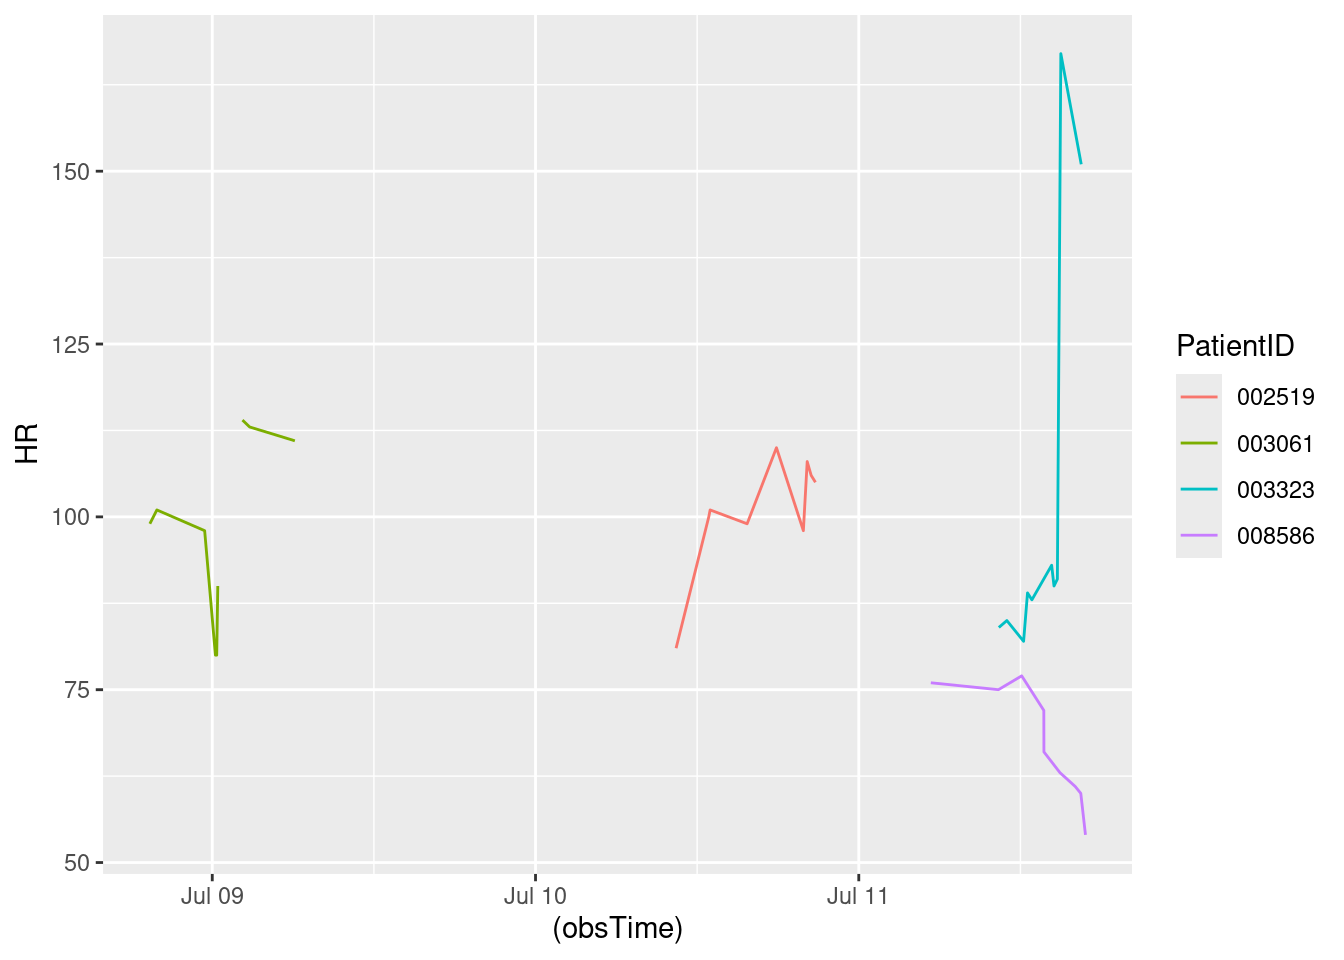
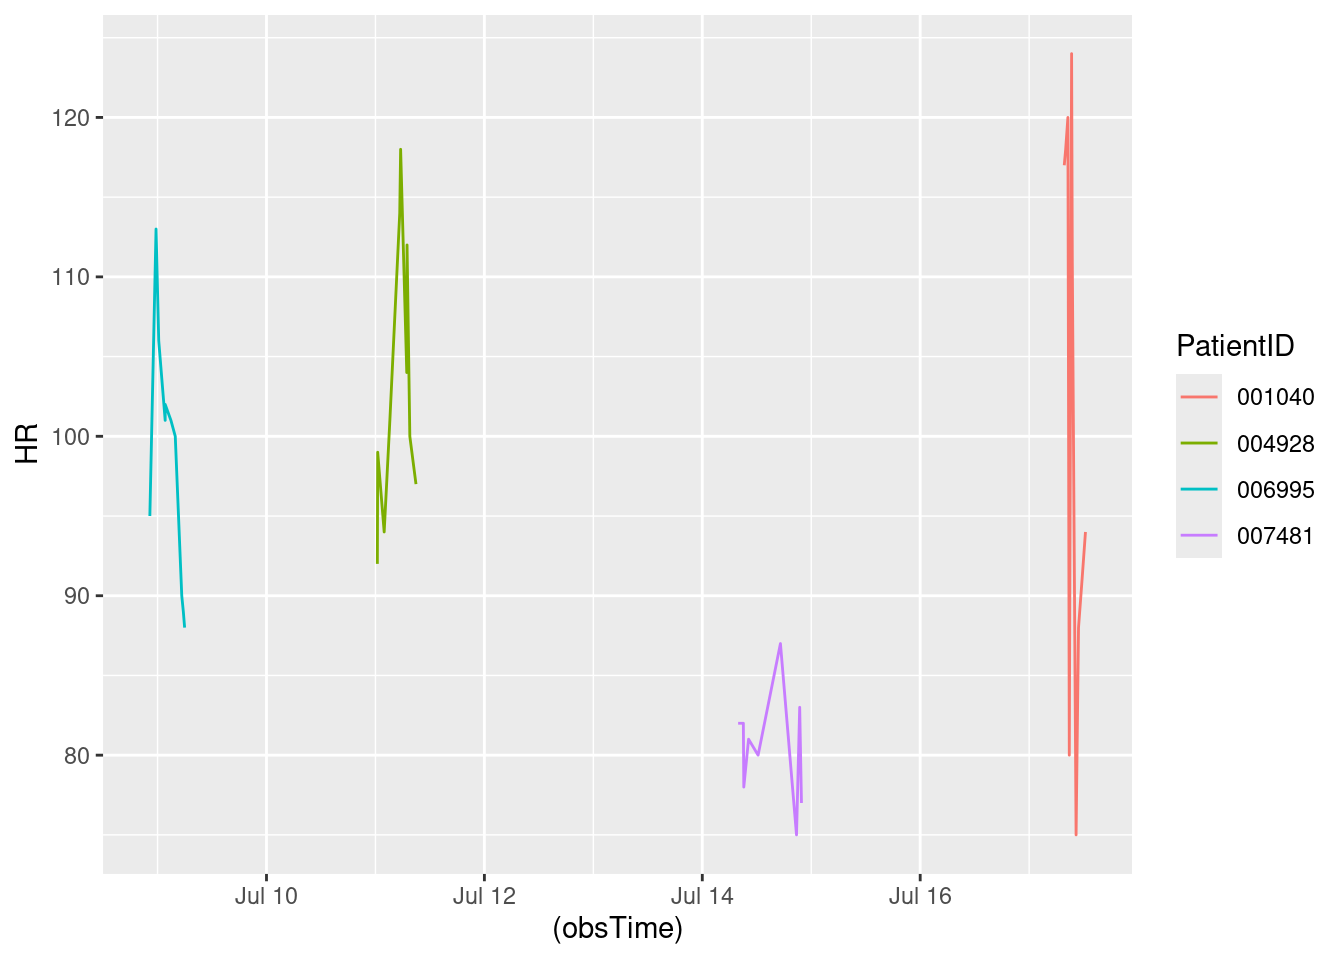
Updated report

diff --git a/HW7.html b/HW7.html
@@ -152,7 +152,7 @@ The following object is masked from 'package:purrr':
 </div>
 <div class="sourceCode cell-code" id="cb8"><pre class="sourceCode r code-with-copy"><code class="sourceCode r"><span id="cb8-1"><a href="#cb8-1" aria-hidden="true" tabindex="-1"></a><span class="fu">toc</span>()</span></code><button title="Copy to Clipboard" class="code-copy-button"><i class="bi"></i></button></pre></div>
 <div class="cell-output cell-output-stdout">
-<pre><code>15.576 sec elapsed</code></pre>
+<pre><code>14.628 sec elapsed</code></pre>
 </div>
 <div class="sourceCode cell-code" id="cb10"><pre class="sourceCode r code-with-copy"><code class="sourceCode r"><span id="cb10-1"><a href="#cb10-1" aria-hidden="true" tabindex="-1"></a><span class="fu">tic</span>()</span>
 <span id="cb10-2"><a href="#cb10-2" aria-hidden="true" tabindex="-1"></a>test1<span class="ot">=</span><span class="fu">makeSepsisDataset</span>(<span class="at">n=</span><span class="dv">50</span>,<span class="at">read_fn =</span> <span class="st">"read_delim"</span>)</span>
@@ -162,7 +162,7 @@ The following object is masked from 'package:purrr':
 </div>
 <div class="sourceCode cell-code" id="cb12"><pre class="sourceCode r code-with-copy"><code class="sourceCode r"><span id="cb12-1"><a href="#cb12-1" aria-hidden="true" tabindex="-1"></a><span class="fu">toc</span>()</span></code><button title="Copy to Clipboard" class="code-copy-button"><i class="bi"></i></button></pre></div>
 <div class="cell-output cell-output-stdout">
-<pre><code>9.802 sec elapsed</code></pre>
+<pre><code>11.803 sec elapsed</code></pre>
 </div>
 <div class="sourceCode cell-code" id="cb14"><pre class="sourceCode r code-with-copy"><code class="sourceCode r"><span id="cb14-1"><a href="#cb14-1" aria-hidden="true" tabindex="-1"></a><span class="fu">tic</span>()</span>
 <span id="cb14-2"><a href="#cb14-2" aria-hidden="true" tabindex="-1"></a>test1<span class="ot">=</span><span class="fu">makeSepsisDataset</span>(<span class="at">n=</span><span class="dv">100</span>,<span class="at">read_fn =</span> <span class="st">"fread"</span>)</span>
@@ -172,7 +172,7 @@ The following object is masked from 'package:purrr':
 </div>
 <div class="sourceCode cell-code" id="cb16"><pre class="sourceCode r code-with-copy"><code class="sourceCode r"><span id="cb16-1"><a href="#cb16-1" aria-hidden="true" tabindex="-1"></a><span class="fu">toc</span>()</span></code><button title="Copy to Clipboard" class="code-copy-button"><i class="bi"></i></button></pre></div>
 <div class="cell-output cell-output-stdout">
-<pre><code>18.033 sec elapsed</code></pre>
+<pre><code>27.815 sec elapsed</code></pre>
 </div>
 <div class="sourceCode cell-code" id="cb18"><pre class="sourceCode r code-with-copy"><code class="sourceCode r"><span id="cb18-1"><a href="#cb18-1" aria-hidden="true" tabindex="-1"></a><span class="fu">tic</span>()</span>
 <span id="cb18-2"><a href="#cb18-2" aria-hidden="true" tabindex="-1"></a>test1<span class="ot">=</span><span class="fu">makeSepsisDataset</span>(<span class="at">n=</span><span class="dv">100</span>,<span class="at">read_fn =</span> <span class="st">"read_delim"</span>)</span>
@@ -182,7 +182,7 @@ The following object is masked from 'package:purrr':
 </div>
 <div class="sourceCode cell-code" id="cb20"><pre class="sourceCode r code-with-copy"><code class="sourceCode r"><span id="cb20-1"><a href="#cb20-1" aria-hidden="true" tabindex="-1"></a><span class="fu">toc</span>()</span></code><button title="Copy to Clipboard" class="code-copy-button"><i class="bi"></i></button></pre></div>
 <div class="cell-output cell-output-stdout">
-<pre><code>18.027 sec elapsed</code></pre>
+<pre><code>23.09 sec elapsed</code></pre>
 </div>
 <div class="sourceCode cell-code" id="cb22"><pre class="sourceCode r code-with-copy"><code class="sourceCode r"><span id="cb22-1"><a href="#cb22-1" aria-hidden="true" tabindex="-1"></a><span class="fu">tic</span>()</span>
 <span id="cb22-2"><a href="#cb22-2" aria-hidden="true" tabindex="-1"></a>test1<span class="ot">=</span><span class="fu">makeSepsisDataset</span>(<span class="at">n=</span><span class="dv">500</span>,<span class="at">read_fn =</span> <span class="st">"fread"</span>)</span>
@@ -192,7 +192,7 @@ The following object is masked from 'package:purrr':
 </div>
 <div class="sourceCode cell-code" id="cb24"><pre class="sourceCode r code-with-copy"><code class="sourceCode r"><span id="cb24-1"><a href="#cb24-1" aria-hidden="true" tabindex="-1"></a><span class="fu">toc</span>()</span></code><button title="Copy to Clipboard" class="code-copy-button"><i class="bi"></i></button></pre></div>
 <div class="cell-output cell-output-stdout">
-<pre><code>94.627 sec elapsed</code></pre>
+<pre><code>137.067 sec elapsed</code></pre>
 </div>
 <div class="sourceCode cell-code" id="cb26"><pre class="sourceCode r code-with-copy"><code class="sourceCode r"><span id="cb26-1"><a href="#cb26-1" aria-hidden="true" tabindex="-1"></a><span class="fu">tic</span>()</span>
 <span id="cb26-2"><a href="#cb26-2" aria-hidden="true" tabindex="-1"></a>test1<span class="ot">=</span><span class="fu">makeSepsisDataset</span>(<span class="at">n=</span><span class="dv">500</span>,<span class="at">read_fn =</span> <span class="st">"read_delim"</span>)</span>
@@ -202,7 +202,7 @@ The following object is masked from 'package:purrr':
 </div>
 <div class="sourceCode cell-code" id="cb28"><pre class="sourceCode r code-with-copy"><code class="sourceCode r"><span id="cb28-1"><a href="#cb28-1" aria-hidden="true" tabindex="-1"></a><span class="fu">toc</span>()</span></code><button title="Copy to Clipboard" class="code-copy-button"><i class="bi"></i></button></pre></div>
 <div class="cell-output cell-output-stdout">
-<pre><code>90.574 sec elapsed</code></pre>
+<pre><code>113.209 sec elapsed</code></pre>
 </div>
 </div>
 <p>Problem 3: Speed reading</p>
@@ -244,7 +244,7 @@ dttm (1): obsTime
 <div class="sourceCode cell-code" id="cb35"><pre class="sourceCode r code-with-copy"><code class="sourceCode r"><span id="cb35-1"><a href="#cb35-1" aria-hidden="true" tabindex="-1"></a><span class="co">#Sys.Date()</span></span>
 <span id="cb35-2"><a href="#cb35-2" aria-hidden="true" tabindex="-1"></a><span class="fu">Sys.time</span>()</span></code><button title="Copy to Clipboard" class="code-copy-button"><i class="bi"></i></button></pre></div>
 <div class="cell-output cell-output-stdout">
-<pre><code>[1] "2024-07-08 14:23:46 UTC"</code></pre>
+<pre><code>[1] "2024-07-08 15:26:27 UTC"</code></pre>
 </div>
 <div class="sourceCode cell-code" id="cb37"><pre class="sourceCode r code-with-copy"><code class="sourceCode r"><span id="cb37-1"><a href="#cb37-1" aria-hidden="true" tabindex="-1"></a>dfnew<span class="ot">=</span>df <span class="sc">%&gt;%</span><span class="fu">subset</span>(SepsisLabel<span class="sc">==</span><span class="dv">1</span>)</span>
 <span id="cb37-2"><a href="#cb37-2" aria-hidden="true" tabindex="-1"></a></span>
@@ -263,19 +263,15 @@ dttm (1): obsTime
 # Groups:   PatientID [4]
   PatientID ICULOS    HR  Temp  Resp SepsisLabel obsTime            
   &lt;chr&gt;      &lt;int&gt; &lt;int&gt; &lt;dbl&gt; &lt;int&gt;       &lt;int&gt; &lt;dttm&gt;             
-1 002519        55   105  NA      14           1 2024-07-10 20:46:55
-2 003061        16   111  37.7    28           1 2024-07-09 06:07:54
-3 003323        76   151  38.4    25           1 2024-07-11 16:30:50
-4 008586        75    54  36.3    21           1 2024-07-11 16:49:46</code></pre>
+1 001040       214    94  38.3    30           1 2024-07-17 12:24:24
+2 004928        66    97  NA      24           1 2024-07-11 08:55:48
+3 006995        16    88  NA      16           1 2024-07-09 05:57:51
+4 007481       151    77  NA      16           1 2024-07-14 21:50:44</code></pre>
 </div>
 </div>
 <div class="cell">
 <div class="sourceCode cell-code" id="cb39"><pre class="sourceCode r code-with-copy"><code class="sourceCode r"><span id="cb39-1"><a href="#cb39-1" aria-hidden="true" tabindex="-1"></a>dfnew <span class="sc">%&gt;%</span></span>
 <span id="cb39-2"><a href="#cb39-2" aria-hidden="true" tabindex="-1"></a>  <span class="fu">ggplot</span>()<span class="sc">+</span><span class="fu">geom_line</span>(<span class="fu">aes</span>(<span class="at">y=</span>HR,<span class="at">x=</span>(obsTime),<span class="at">color=</span>PatientID))</span></code><button title="Copy to Clipboard" class="code-copy-button"><i class="bi"></i></button></pre></div>
-<div class="cell-output cell-output-stderr">
-<pre><code>Warning: Removed 1 row containing missing values or values outside the scale range
-(`geom_line()`).</code></pre>
-</div>
 <div class="cell-output-display">
 <div>
 <figure class="figure">
@@ -288,7 +284,7 @@ dttm (1): obsTime
 <section id="display-the-most-recent-data" class="level2">
 <h2 class="anchored" data-anchor-id="display-the-most-recent-data">Display the most recent data</h2>
 <div class="cell">
-<div class="sourceCode cell-code" id="cb41"><pre class="sourceCode r code-with-copy"><code class="sourceCode r"><span id="cb41-1"><a href="#cb41-1" aria-hidden="true" tabindex="-1"></a>most_recent_data</span></code><button title="Copy to Clipboard" class="code-copy-button"><i class="bi"></i></button></pre></div>
+<div class="sourceCode cell-code" id="cb40"><pre class="sourceCode r code-with-copy"><code class="sourceCode r"><span id="cb40-1"><a href="#cb40-1" aria-hidden="true" tabindex="-1"></a>most_recent_data</span></code><button title="Copy to Clipboard" class="code-copy-button"><i class="bi"></i></button></pre></div>
 <div class="cell-output cell-output-stdout">
 <pre><code># A tibble: 50 × 7
 # Groups:   PatientID [50]
@@ -311,32 +307,32 @@ dttm (1): obsTime
 <section id="calculate-the-difference" class="level2">
 <h2 class="anchored" data-anchor-id="calculate-the-difference">Calculate the difference</h2>
 <div class="cell">
-<div class="sourceCode cell-code" id="cb43"><pre class="sourceCode r code-with-copy"><code class="sourceCode r"><span id="cb43-1"><a href="#cb43-1" aria-hidden="true" tabindex="-1"></a><span class="fu">library</span>(dplyr)</span>
-<span id="cb43-2"><a href="#cb43-2" aria-hidden="true" tabindex="-1"></a><span class="fu">library</span>(tidyr)</span>
-<span id="cb43-3"><a href="#cb43-3" aria-hidden="true" tabindex="-1"></a><span class="fu">library</span>(knitr)</span>
-<span id="cb43-4"><a href="#cb43-4" aria-hidden="true" tabindex="-1"></a>get_observation_data <span class="ot">&lt;-</span> <span class="cf">function</span>(data, n, column_suffix) {</span>
-<span id="cb43-5"><a href="#cb43-5" aria-hidden="true" tabindex="-1"></a>  data <span class="sc">%&gt;%</span></span>
-<span id="cb43-6"><a href="#cb43-6" aria-hidden="true" tabindex="-1"></a>    <span class="fu">group_by</span>(PatientID) <span class="sc">%&gt;%</span></span>
-<span id="cb43-7"><a href="#cb43-7" aria-hidden="true" tabindex="-1"></a>    <span class="fu">slice_max</span>(<span class="at">order_by =</span> obsTime, <span class="at">n =</span> n) <span class="sc">%&gt;%</span></span>
-<span id="cb43-8"><a href="#cb43-8" aria-hidden="true" tabindex="-1"></a>    <span class="fu">select</span>(<span class="sc">-</span><span class="fu">c</span>(ICULOS, SepsisLabel, obsTime)) <span class="sc">%&gt;%</span></span>
-<span id="cb43-9"><a href="#cb43-9" aria-hidden="true" tabindex="-1"></a>    <span class="fu">rename_at</span>(<span class="fu">vars</span>(HR, Temp, Resp),</span>
-<span id="cb43-10"><a href="#cb43-10" aria-hidden="true" tabindex="-1"></a>              <span class="fu">list</span>(<span class="sc">~</span><span class="fu">paste0</span>(., <span class="st">"_"</span>, column_suffix)))</span>
-<span id="cb43-11"><a href="#cb43-11" aria-hidden="true" tabindex="-1"></a>}</span>
-<span id="cb43-12"><a href="#cb43-12" aria-hidden="true" tabindex="-1"></a></span>
-<span id="cb43-13"><a href="#cb43-13" aria-hidden="true" tabindex="-1"></a></span>
-<span id="cb43-14"><a href="#cb43-14" aria-hidden="true" tabindex="-1"></a></span>
-<span id="cb43-15"><a href="#cb43-15" aria-hidden="true" tabindex="-1"></a></span>
-<span id="cb43-16"><a href="#cb43-16" aria-hidden="true" tabindex="-1"></a>last_obs <span class="ot">&lt;-</span> <span class="fu">get_observation_data</span>(new_data, <span class="dv">1</span>, <span class="st">"last"</span>)</span>
-<span id="cb43-17"><a href="#cb43-17" aria-hidden="true" tabindex="-1"></a>penultimate_obs <span class="ot">&lt;-</span> <span class="fu">get_observation_data</span>(new_data, <span class="dv">2</span>, <span class="st">"penult"</span>)</span>
-<span id="cb43-18"><a href="#cb43-18" aria-hidden="true" tabindex="-1"></a>joined_data <span class="ot">&lt;-</span> <span class="fu">full_join</span>(last_obs, penultimate_obs) <span class="sc">%&gt;%</span></span>
-<span id="cb43-19"><a href="#cb43-19" aria-hidden="true" tabindex="-1"></a>  <span class="fu">transmute</span>(PatientID,</span>
-<span id="cb43-20"><a href="#cb43-20" aria-hidden="true" tabindex="-1"></a>            <span class="st">`</span><span class="at">Temperature change</span><span class="st">`</span> <span class="ot">=</span> Temp_last <span class="sc">-</span> Temp_penult,</span>
-<span id="cb43-21"><a href="#cb43-21" aria-hidden="true" tabindex="-1"></a>            <span class="st">`</span><span class="at">Heart rate change</span><span class="st">`</span> <span class="ot">=</span> HR_last <span class="sc">-</span> HR_penult,</span>
-<span id="cb43-22"><a href="#cb43-22" aria-hidden="true" tabindex="-1"></a>            <span class="st">`</span><span class="at">Respiratory rate change</span><span class="st">`</span> <span class="ot">=</span> Resp_last <span class="sc">-</span> Resp_penult)</span></code><button title="Copy to Clipboard" class="code-copy-button"><i class="bi"></i></button></pre></div>
+<div class="sourceCode cell-code" id="cb42"><pre class="sourceCode r code-with-copy"><code class="sourceCode r"><span id="cb42-1"><a href="#cb42-1" aria-hidden="true" tabindex="-1"></a><span class="fu">library</span>(dplyr)</span>
+<span id="cb42-2"><a href="#cb42-2" aria-hidden="true" tabindex="-1"></a><span class="fu">library</span>(tidyr)</span>
+<span id="cb42-3"><a href="#cb42-3" aria-hidden="true" tabindex="-1"></a><span class="fu">library</span>(knitr)</span>
+<span id="cb42-4"><a href="#cb42-4" aria-hidden="true" tabindex="-1"></a>get_observation_data <span class="ot">&lt;-</span> <span class="cf">function</span>(data, n, column_suffix) {</span>
+<span id="cb42-5"><a href="#cb42-5" aria-hidden="true" tabindex="-1"></a>  data <span class="sc">%&gt;%</span></span>
+<span id="cb42-6"><a href="#cb42-6" aria-hidden="true" tabindex="-1"></a>    <span class="fu">group_by</span>(PatientID) <span class="sc">%&gt;%</span></span>
+<span id="cb42-7"><a href="#cb42-7" aria-hidden="true" tabindex="-1"></a>    <span class="fu">slice_max</span>(<span class="at">order_by =</span> obsTime, <span class="at">n =</span> n) <span class="sc">%&gt;%</span></span>
+<span id="cb42-8"><a href="#cb42-8" aria-hidden="true" tabindex="-1"></a>    <span class="fu">select</span>(<span class="sc">-</span><span class="fu">c</span>(ICULOS, SepsisLabel, obsTime)) <span class="sc">%&gt;%</span></span>
+<span id="cb42-9"><a href="#cb42-9" aria-hidden="true" tabindex="-1"></a>    <span class="fu">rename_at</span>(<span class="fu">vars</span>(HR, Temp, Resp),</span>
+<span id="cb42-10"><a href="#cb42-10" aria-hidden="true" tabindex="-1"></a>              <span class="fu">list</span>(<span class="sc">~</span><span class="fu">paste0</span>(., <span class="st">"_"</span>, column_suffix)))</span>
+<span id="cb42-11"><a href="#cb42-11" aria-hidden="true" tabindex="-1"></a>}</span>
+<span id="cb42-12"><a href="#cb42-12" aria-hidden="true" tabindex="-1"></a></span>
+<span id="cb42-13"><a href="#cb42-13" aria-hidden="true" tabindex="-1"></a></span>
+<span id="cb42-14"><a href="#cb42-14" aria-hidden="true" tabindex="-1"></a></span>
+<span id="cb42-15"><a href="#cb42-15" aria-hidden="true" tabindex="-1"></a></span>
+<span id="cb42-16"><a href="#cb42-16" aria-hidden="true" tabindex="-1"></a>last_obs <span class="ot">&lt;-</span> <span class="fu">get_observation_data</span>(new_data, <span class="dv">1</span>, <span class="st">"last"</span>)</span>
+<span id="cb42-17"><a href="#cb42-17" aria-hidden="true" tabindex="-1"></a>penultimate_obs <span class="ot">&lt;-</span> <span class="fu">get_observation_data</span>(new_data, <span class="dv">2</span>, <span class="st">"penult"</span>)</span>
+<span id="cb42-18"><a href="#cb42-18" aria-hidden="true" tabindex="-1"></a>joined_data <span class="ot">&lt;-</span> <span class="fu">full_join</span>(last_obs, penultimate_obs) <span class="sc">%&gt;%</span></span>
+<span id="cb42-19"><a href="#cb42-19" aria-hidden="true" tabindex="-1"></a>  <span class="fu">transmute</span>(PatientID,</span>
+<span id="cb42-20"><a href="#cb42-20" aria-hidden="true" tabindex="-1"></a>            <span class="st">`</span><span class="at">Temperature change</span><span class="st">`</span> <span class="ot">=</span> Temp_last <span class="sc">-</span> Temp_penult,</span>
+<span id="cb42-21"><a href="#cb42-21" aria-hidden="true" tabindex="-1"></a>            <span class="st">`</span><span class="at">Heart rate change</span><span class="st">`</span> <span class="ot">=</span> HR_last <span class="sc">-</span> HR_penult,</span>
+<span id="cb42-22"><a href="#cb42-22" aria-hidden="true" tabindex="-1"></a>            <span class="st">`</span><span class="at">Respiratory rate change</span><span class="st">`</span> <span class="ot">=</span> Resp_last <span class="sc">-</span> Resp_penult)</span></code><button title="Copy to Clipboard" class="code-copy-button"><i class="bi"></i></button></pre></div>
 <div class="cell-output cell-output-stderr">
 <pre><code>Joining with `by = join_by(PatientID)`</code></pre>
 </div>
-<div class="sourceCode cell-code" id="cb45"><pre class="sourceCode r code-with-copy"><code class="sourceCode r"><span id="cb45-1"><a href="#cb45-1" aria-hidden="true" tabindex="-1"></a><span class="fu">kable</span>(joined_data, <span class="at">caption =</span> <span class="st">"Patients' Recent Changes in Vital Stats"</span>)</span></code><button title="Copy to Clipboard" class="code-copy-button"><i class="bi"></i></button></pre></div>
+<div class="sourceCode cell-code" id="cb44"><pre class="sourceCode r code-with-copy"><code class="sourceCode r"><span id="cb44-1"><a href="#cb44-1" aria-hidden="true" tabindex="-1"></a><span class="fu">kable</span>(joined_data, <span class="at">caption =</span> <span class="st">"Patients' Recent Changes in Vital Stats"</span>)</span></code><button title="Copy to Clipboard" class="code-copy-button"><i class="bi"></i></button></pre></div>
 <div class="cell-output-display">
 <table class="caption-top table table-sm table-striped small">
 <caption>Patients’ Recent Changes in Vital Stats</caption>
